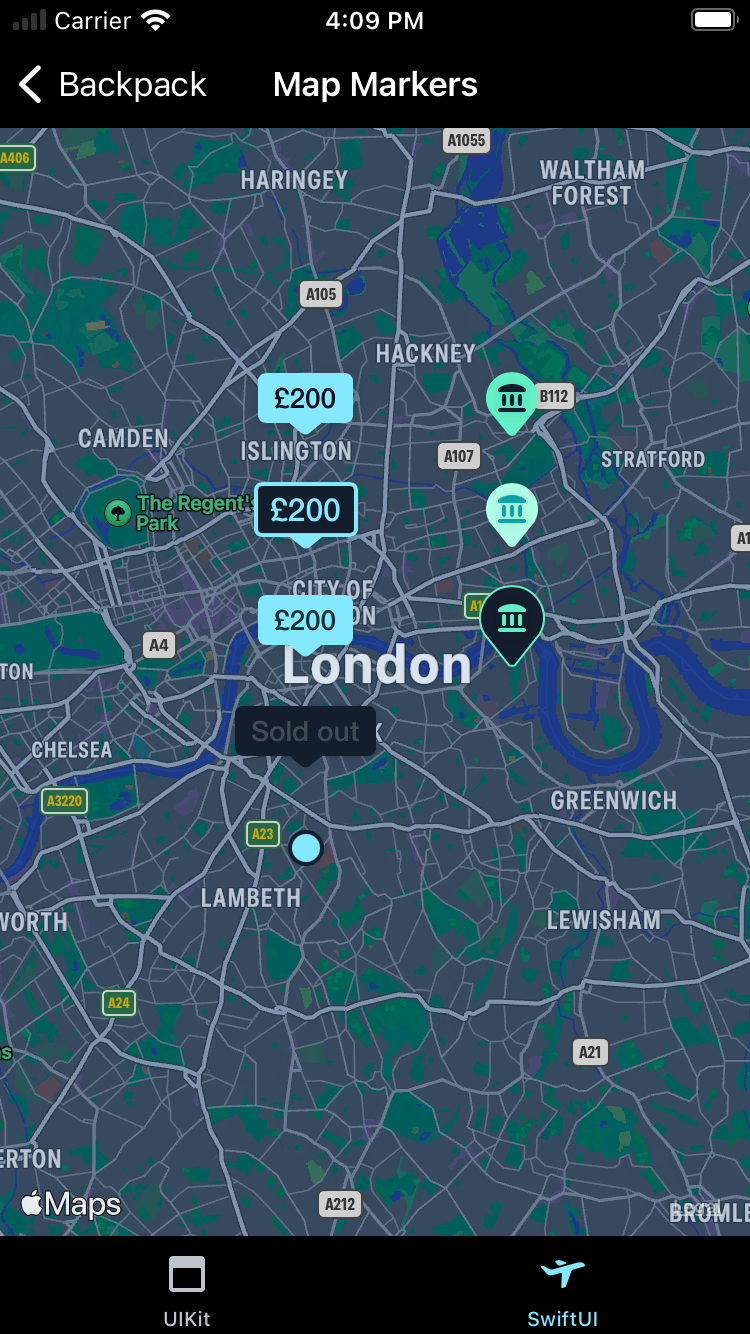
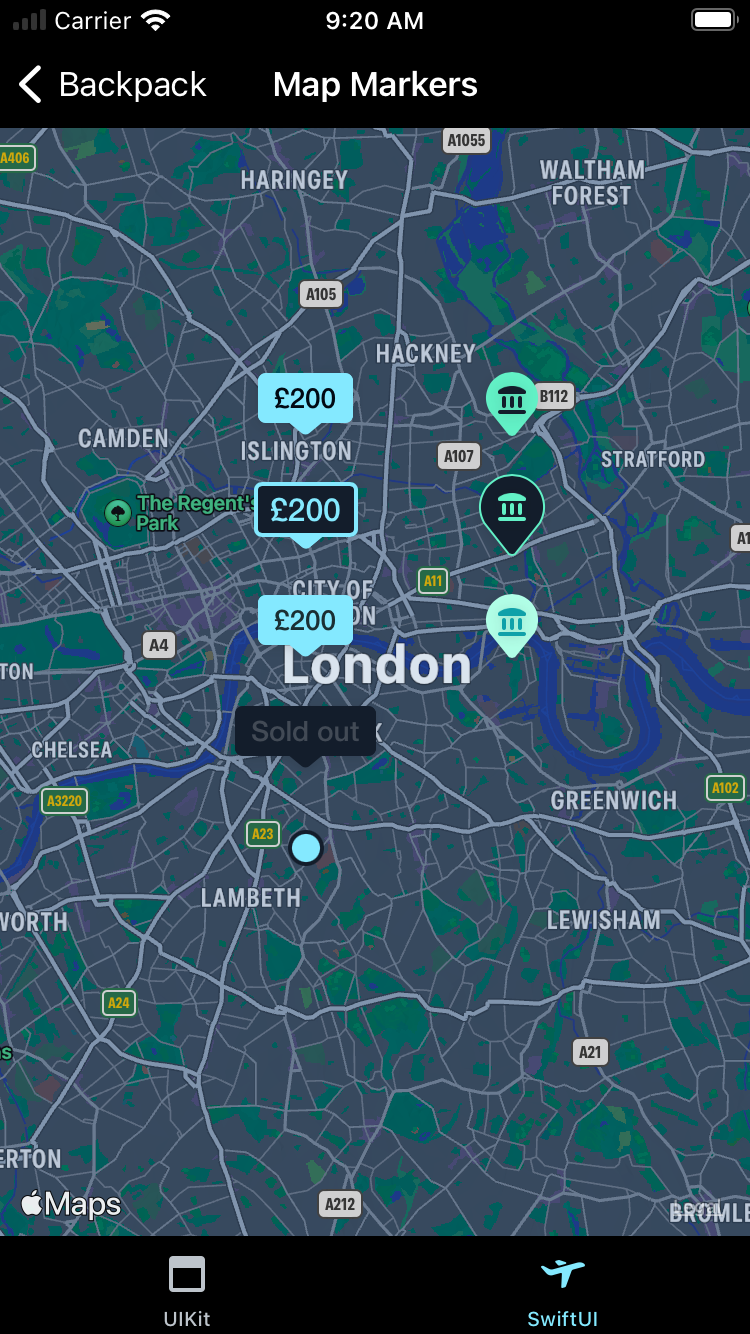
Applying PR Comments

diff --git a/Backpack-SwiftUI/MapMarker/Classes/BPKPriceMapMarker+State.swift b/Backpack-SwiftUI/MapMarker/Classes/BPKPriceMapMarker+State.swift
@@ -1,0 +1,66 @@
+/*
+ * Backpack - Skyscanner's Design System
+ *
+ * Copyright 2018 Skyscanner Ltd
+ *
+ * Licensed under the Apache License, Version 2.0 (the "License");
+ * you may not use this file except in compliance with the License.
+ * You may obtain a copy of the License at
+ *
+ *   http://www.apache.org/licenses/LICENSE-2.0
+ *
+ * Unless required by applicable law or agreed to in writing, software
+ * distributed under the License is distributed on an "AS IS" BASIS,
+ * WITHOUT WARRANTIES OR CONDITIONS OF ANY KIND, either express or implied.
+ * See the License for the specific language governing permissions and
+ * limitations under the License.
+ */
+
+import SwiftUI
+
+extension BPKPriceMapMarker {
+    public enum State {
+        case `default`
+        case focused
+        case viewed
+        case disabled
+        
+        var fontStyle: BPKFontStyle {
+            switch self {
+            case .focused:
+                return .label1
+            default:
+                return .label2
+            }
+        }
+        
+        var foregroundColor: BPKColor {
+            switch self {
+            case .default:
+                return .textPrimaryInverseColor
+            case .focused:
+                return .coreAccentColor
+            case .viewed:
+                return .mapMarkerViewedForegroundColor
+            case .disabled:
+                return .textDisabledColor
+            }
+        }
+        
+        var backgroundColor: BPKColor {
+            switch self {
+            case .default, .viewed:
+                return .coreAccentColor
+            case .focused, .disabled:
+                return .surfaceDefaultColor
+            }
+        }
+        
+        var flareColor: BPKColor {
+            switch self {
+            case .focused: return foregroundColor
+            default: return backgroundColor
+            }
+        }
+    }
+}

diff --git a/Backpack-SwiftUI/MapMarker/Classes/BPKPoiMapMarker+State.swift b/Backpack-SwiftUI/MapMarker/Classes/BPKPoiMapMarker+State.swift
@@ -1,0 +1,63 @@
+/*
+ * Backpack - Skyscanner's Design System
+ *
+ * Copyright 2018 Skyscanner Ltd
+ *
+ * Licensed under the Apache License, Version 2.0 (the "License");
+ * you may not use this file except in compliance with the License.
+ * You may obtain a copy of the License at
+ *
+ *   http://www.apache.org/licenses/LICENSE-2.0
+ *
+ * Unless required by applicable law or agreed to in writing, software
+ * distributed under the License is distributed on an "AS IS" BASIS,
+ * WITHOUT WARRANTIES OR CONDITIONS OF ANY KIND, either express or implied.
+ * See the License for the specific language governing permissions and
+ * limitations under the License.
+ */
+
+import SwiftUI
+
+extension BPKPoiMapMarker {
+    public enum State {
+        case `default`
+        case focused
+        case viewed
+        
+        var foregroundColor: BPKColor {
+            switch self {
+            case .default:
+                return .surfaceDefaultColor
+            case .viewed:
+                return .coreEcoColor
+            case .focused:
+                return .statusSuccessSpotColor
+            }
+        }
+        
+        var backgroundColor: BPKColor {
+            switch self {
+            case .default:
+                return .statusSuccessSpotColor
+            case .viewed:
+                return .statusSuccessFillColor
+            case .focused:
+                return .surfaceDefaultColor
+            }
+        }
+        
+        var markerSize: CGSize {
+            switch self {
+            case .focused: return CGSize(width: 32, height: 40)
+            default: return CGSize(width: 26, height: 32)
+            }
+        }
+        
+        var topPadding: CGFloat {
+            switch self {
+            case .focused: return BPKSpacing.md.value
+            default: return 6
+            }
+        }
+    }
+}
